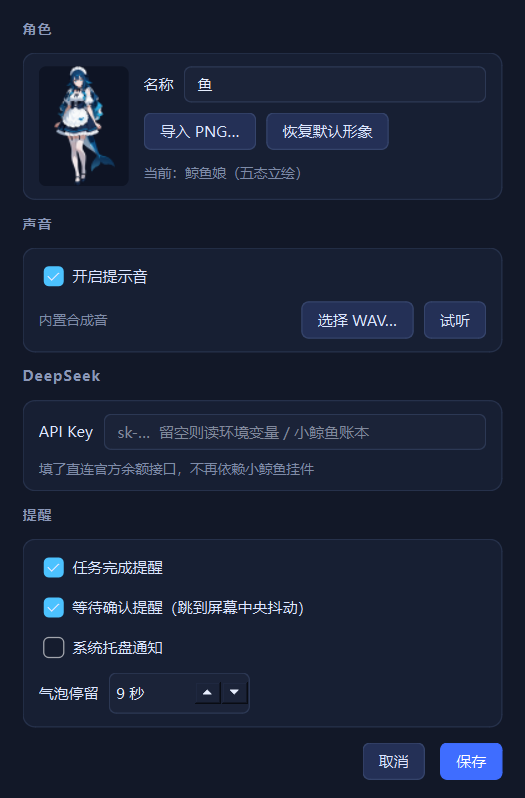
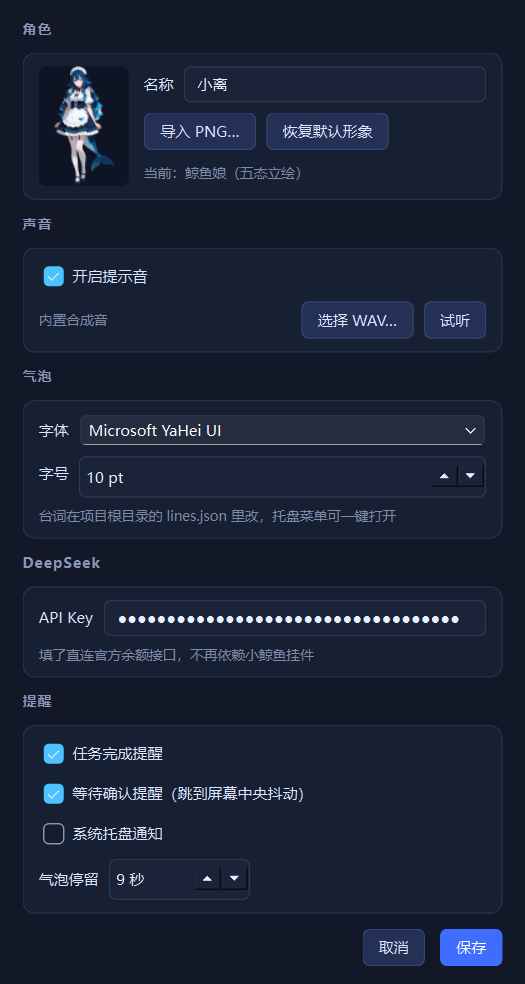
feat(bubble): fuzzy fur edge, editable font and dialogue corpus
- separate feathered fur-edge layer drawn over the panel outline, so the border reads as fluff instead of a hard cut
- bubble font family/size moved into config and exposed in Settings
- lines.json drives every pat reaction; tray item opens it, defaults are generated on first run
- keep the key out of the repo: config.json and lines.json stay ignored

diff --git a/ui/bubble.py b/ui/bubble.py
@@ -11,23 +11,33 @@ from PySide6.QtGui import (QColor, QFont, QFontMetrics, QPainter, QPixmap,
 from PySide6.QtWidgets import QApplication, QWidget
 
 ASSETS = Path(__file__).resolve().parent.parent / "assets" / "bubble"
-PAD_X = 30          # 留出毛绒边框
-PAD_Y = 20
+PAD_X = 34          # 留出毛绒边框
+PAD_Y = 24
 TAIL = 0            # 毛绒面板没有尖角，气泡直接浮在头顶
 MAX_W = 320
 MIN_W = 172
 TEXT = "#3B3644"    # 白底上的深色字
 
 _FUZZ: QPixmap | None = None
+_EDGE: QPixmap | None = None
 
 
 def _fuzz() -> QPixmap:
-    """毛绒底图（Krea2 生成，tools/make_bubble_art.py）。"""
+    """毛绒纹理（Krea2 生成，tools/make_bubble_art.py）。"""
     global _FUZZ
     if _FUZZ is None:
         p = ASSETS / "fluff.png"
         _FUZZ = QPixmap(str(p)) if p.exists() else QPixmap()
     return _FUZZ
+
+
+def _edge() -> QPixmap:
+    """只保留外圈的绒边，用来做不截断的毛边轮廓。"""
+    global _EDGE
+    if _EDGE is None:
+        p = ASSETS / "fluff_edge.png"
+        _EDGE = QPixmap(str(p)) if p.exists() else QPixmap()
+    return _EDGE
 
 
 class Bubble(QWidget):
@@ -40,6 +50,8 @@ class Bubble(QWidget):
         self.setAttribute(Qt.WA_TranslucentBackground, True)
         self.setAttribute(Qt.WA_ShowWithoutActivating, True)
 
+        self._family = "Microsoft YaHei UI"
+        self._size = 10
         self._title = ""
         self._text = ""
         self._accent = QColor("#8FE7FF")
@@ -99,6 +111,15 @@ class Bubble(QWidget):
         if seconds and seconds > 0:
             self._timer.start(int(seconds * 1000))
 
+    def set_style(self, family: str, size: int) -> None:
+        """字体可换——字体族与字号都来自 config，用户改了立即生效。"""
+        self._family = family or "Microsoft YaHei UI"
+        self._size = max(7, min(24, int(size)))
+        self._font = QFont(self._family, self._size)
+        self._doc.setDefaultFont(self._font)
+        self._title_font = QFont(self._family, self._size)
+        self._title_font.setBold(True)
+
     def _place(self, anchor: QRect) -> None:
         screen = QApplication.screenAt(anchor.center()) or QApplication.primaryScreen()
         area = screen.availableGeometry()
@@ -134,25 +155,32 @@ class Bubble(QWidget):
         p.setRenderHint(QPainter.SmoothPixmapTransform, True)
         p.fillRect(self.rect(), Qt.transparent)
 
-        body = QRectF(0.8, 0.8, self.width() - 1.6, self.height() - 1.6)
-        radius = min(18.0, body.height() / 2.0)
+        inset = 4.0
+        body = QRectF(inset, inset, self.width() - inset * 2, self.height() - inset * 2)
+        radius = min(16.0, body.height() / 2.0)
 
-        # 1) 实底：保证文字有干净的背景
+        # 1) 白色实底，略微内缩，让外圈留给绒毛
         p.setPen(Qt.NoPen)
-        p.setBrush(QColor(252, 251, 252, 246))
+        p.setBrush(QColor(252, 251, 252, 250))
         p.drawRoundedRect(body, radius, radius)
 
-        # 2) 毛绒纹理：压低透明度叠在实底上，只当质感，不抢字
+        # 2) 一圈很淡的纹理，增加棉感（不会盖住文字）
         pm = _fuzz()
         if not pm.isNull():
-            p.setOpacity(0.38)
-            self._draw_nine(p, pm, body)
+            p.setOpacity(0.22)
+            self._draw_nine(p, pm, body, dst=22.0)
             p.setOpacity(1.0)
 
-        # 3) 边缘一圈淡描边，把面板和桌面分开
+        # 3) 带羽化的绒边，盖在轮廓上——这样边缘是毛的，不是一刀切
+        edge = _edge()
+        if not edge.isNull():
+            outer = QRectF(0, 0, self.width(), self.height())
+            self._draw_nine(p, edge, outer, dst=30.0)
+
+        # 4) 极淡描边压住内圈，避免白底和绒边之间有条缝
         p.setBrush(Qt.NoBrush)
-        p.setPen(QColor(210, 206, 216, 170))
-        p.drawRoundedRect(body, radius, radius)
+        p.setPen(QColor(214, 210, 220, 90))
+        p.drawRoundedRect(body.adjusted(1, 1, -1, -1), radius - 1, radius - 1)
 
         y = PAD_Y - 4
         if self._title:
@@ -167,15 +195,15 @@ class Bubble(QWidget):
         self._doc.drawContents(p)
 
     @staticmethod
-    def _draw_nine(p: QPainter, pm: QPixmap, rect: QRectF) -> None:
-        """九宫格：四角保留绒毛细节，边和中间拉伸；目标角固定 22px，不被源图尺寸带偏。"""
+    def _draw_nine(p: QPainter, pm: QPixmap, rect: QRectF, dst: float = 22.0) -> None:
+        """九宫格：四角保留绒毛细节，边和中间拉伸。"""
         sw, sh = pm.width(), pm.height()
         src = min(sw, sh) * 0.30
-        dst = min(22.0, rect.width() / 3.0, rect.height() / 3.0)
+        d = min(dst, rect.width() / 3.0, rect.height() / 3.0)
         sx = (0.0, src, sw - src, float(sw))
         sy = (0.0, src, sh - src, float(sh))
-        dx = (rect.left(), rect.left() + dst, rect.right() - dst, rect.right())
-        dy = (rect.top(), rect.top() + dst, rect.bottom() - dst, rect.bottom())
+        dx = (rect.left(), rect.left() + d, rect.right() - d, rect.right())
+        dy = (rect.top(), rect.top() + d, rect.bottom() - d, rect.bottom())
         for i in range(3):
             for j in range(3):
                 w = dx[i + 1] - dx[i]

diff --git a/app.py b/app.py
@@ -10,7 +10,7 @@ from PySide6.QtCore import QObject, QPoint, QThread, QTimer, Qt, Signal
 from PySide6.QtGui import QAction, QActionGroup
 from PySide6.QtWidgets import QApplication, QMenu, QSystemTrayIcon
 
-from core import config, skins
+from core import config, skins, texts
 from core.log import log
 from core.log import exc as log_exc
 from core.store import Store
@@ -28,14 +28,7 @@ from ui.sprite import load_custom_skin, load_skin
 ROOT = Path(__file__).resolve().parent
 DEDUPE_WINDOW = 45.0  # 同一任务的重复完成提醒合并窗口（秒）
 
-# 摸摸时的随机台词
-PAT_LINES = {
-    "happy": ["嘿嘿…", "好舒服～", "再来一下嘛", "唔…喜欢"],
-    "shy": ["别、别摸了…", "脸要烧起来了", "诶…突然这样"],
-    "angry": ["别戳了！", "再点真要生气了", "哼——"],
-    "surprise": ["哇啊——", "放我下来！"],
-    "sad": ["呜…", "今天有点累"],
-}
+
 
 
 class Poller(QThread):
@@ -104,6 +97,8 @@ class DeskPet(QObject):
         self.pet.context_requested.connect(self._show_menu)
 
         self.bubble = Bubble()
+        self.bubble.set_style(self.cfg.get("bubble", {}).get("font_family", ""),
+                              self.cfg.get("bubble", {}).get("font_size", 10))
         self.panel = Panel()
         self.panel.set_name(self._pet_name())
         self.sound = Player(
@@ -122,6 +117,8 @@ class DeskPet(QObject):
         self._pat_times: list[float] = []
         self._last_line = ""
         self._last_pat_at = 0.0
+        texts.write_example()
+        self.lines = texts.load_lines()
         self._home_pos: QPoint | None = None
         self._alert_centered = False
         self._last_saved_pos = None
@@ -268,6 +265,9 @@ class DeskPet(QObject):
         self.sound.muted = not cfg["alerts"]["sound"] or cfg["pet"]["muted"]
         self.sound.set_custom(cfg["alerts"].get("sound_file", ""))
         self.ds.set_key(cfg["deepseek"].get("api_key", ""))
+        self.bubble.set_style(cfg.get("bubble", {}).get("font_family", ""),
+                              cfg.get("bubble", {}).get("font_size", 10))
+        self.lines = texts.load_lines()
 
         self._reload_skin()
         self.panel.set_name(self._pet_name())
@@ -549,7 +549,7 @@ class DeskPet(QObject):
 
         self.pet.set_mood(mood, 2.6)
         self.sound.play("click")
-        pool = PAT_LINES.get(mood, ["…"])
+        pool = self.lines.get(mood) or ["…"]
         fresh = [l for l in pool if l != self._last_line] or pool
         line = random.choice(fresh)
         self._last_line = line
@@ -599,6 +599,16 @@ class DeskPet(QObject):
         except Exception:
             log_exc("重建采集线程失败")
         self._last_tick_at = time.time()
+
+    def _open_lines_file(self) -> None:
+        """把 lines.json 交给系统默认编辑器，改完下次摸摸就生效。"""
+        import os
+
+        path = texts.write_example()
+        try:
+            os.startfile(str(path))       # noqa: S606 - 只打开自己的文件
+        except Exception:
+            log_exc("打开台词文件失败")
 
     # ---------------- 换肤 ----------------
     def _switch_skin(self, skin_id: str) -> None:

diff --git a/ui/settings.py b/ui/settings.py
@@ -5,10 +5,10 @@ import shutil
 from pathlib import Path
 
 from PySide6.QtCore import Qt, Signal
-from PySide6.QtGui import QPixmap
-from PySide6.QtWidgets import (QCheckBox, QDialog, QFileDialog, QFormLayout, QFrame,
-                               QHBoxLayout, QLabel, QLineEdit, QPushButton,
-                               QSpinBox, QVBoxLayout, QWidget)
+from PySide6.QtGui import QFont, QPixmap
+from PySide6.QtWidgets import (QCheckBox, QDialog, QFileDialog, QFontComboBox,
+                               QFormLayout, QFrame, QHBoxLayout, QLabel, QLineEdit,
+                               QPushButton, QSpinBox, QVBoxLayout, QWidget)
 
 CUSTOM_DIR = Path(__file__).resolve().parent.parent / "assets" / "custom"
 
@@ -119,6 +119,27 @@ class SettingsDialog(QDialog):
         snd_row.addWidget(b2)
         form.addRow(snd_row)
         root.addWidget(snd)
+
+        # ---- 气泡 ----
+        root.addWidget(_section("气泡"))
+        bub = QFrame()
+        bub.setObjectName("card")
+        form_b = QFormLayout(bub)
+        form_b.setContentsMargins(12, 10, 12, 10)
+        form_b.setSpacing(8)
+        bcfg = self.cfg.get("bubble", {})
+        self.cb_font = QFontComboBox()
+        self.cb_font.setCurrentFont(QFont(bcfg.get("font_family", "Microsoft YaHei UI")))
+        form_b.addRow(QLabel("字体"), self.cb_font)
+        self.sp_fsize = QSpinBox()
+        self.sp_fsize.setRange(8, 18)
+        self.sp_fsize.setValue(int(bcfg.get("font_size", 10)))
+        self.sp_fsize.setSuffix(" pt")
+        form_b.addRow(QLabel("字号"), self.sp_fsize)
+        hint_b = QLabel("台词在项目根目录的 lines.json 里改，托盘菜单可一键打开")
+        hint_b.setStyleSheet("color:#7E8BA8; font-size:11px;")
+        form_b.addRow(hint_b)
+        root.addWidget(bub)
 
         # ---- DeepSeek ----
         root.addWidget(_section("DeepSeek"))
@@ -237,6 +258,9 @@ class SettingsDialog(QDialog):
         self.cfg["alerts"]["approval"] = self.ck_appr.isChecked()
         self.cfg["alerts"]["tray"] = self.ck_tray.isChecked()
         self.cfg["alerts"]["bubble_seconds"] = self.sp_dur.value()
+        self.cfg.setdefault("bubble", {})
+        self.cfg["bubble"]["font_family"] = self.cb_font.currentFont().family()
+        self.cfg["bubble"]["font_size"] = self.sp_fsize.value()
         self.cfg["deepseek"]["api_key"] = self.ed_key.text().strip()
         self.saved.emit(self.cfg)
         self.accept()

diff --git a/core/texts.py b/core/texts.py
@@ -1,0 +1,53 @@
+"""台词库：默认内置一份，用户可用项目根目录的 lines.json 覆盖。"""
+from __future__ import annotations
+
+import json
+from pathlib import Path
+
+ROOT = Path(__file__).resolve().parent.parent
+LINES_FILE = ROOT / "lines.json"
+
+DEFAULT_LINES: dict[str, list[str]] = {
+    "happy": ["嘿嘿…", "好舒服～", "再来一下嘛", "唔…喜欢"],
+    "shy": ["别、别摸了…", "脸要烧起来了", "诶…突然这样"],
+    "angry": ["别戳了！", "再点真要生气了", "哼——"],
+    "surprise": ["哇啊——", "放我下来！"],
+    "sad": ["呜…", "今天有点累"],
+    "idle": ["在呢", "嗯？"],
+}
+
+DEFAULT_FONT = {"family": "Microsoft YaHei UI", "size": 10, "title_size": 10}
+
+
+def load_lines(path: Path | None = None) -> dict[str, list[str]]:
+    """默认台词 + lines.json 覆盖（同名键整组替换，不追加）。"""
+    out = {k: list(v) for k, v in DEFAULT_LINES.items()}
+    target = Path(path) if path else LINES_FILE
+    if not target.exists():
+        return out
+    try:
+        data = json.loads(target.read_text(encoding="utf-8"))
+    except Exception:
+        return out
+    if not isinstance(data, dict):
+        return out
+    for key, val in data.items():
+        if isinstance(val, str):
+            val = [val]
+        if isinstance(val, list):
+            lines = [str(x).strip() for x in val if str(x).strip()]
+            if lines:
+                out[str(key)] = lines
+    return out
+
+
+def write_example(path: Path | None = None, force: bool = False) -> Path:
+    """首次运行写一份可编辑的 lines.json（已存在则不覆盖）。"""
+    target = Path(path) if path else LINES_FILE
+    if target.exists() and not force:
+        return target
+    target.write_text(
+        json.dumps(DEFAULT_LINES, ensure_ascii=False, indent=2),
+        encoding="utf-8",
+    )
+    return target

diff --git a/core/config.py b/core/config.py
@@ -44,6 +44,10 @@ DEFAULTS: dict = {
         "refresh_seconds": 300,
         "exe": "",
     },
+    "bubble": {
+        "font_family": "Microsoft YaHei UI",
+        "font_size": 10,
+    },
     "autostart": False,
 }
 

diff --git a/README.zh-CN.md b/README.zh-CN.md
@@ -179,8 +179,14 @@ python tools/make_skin.py --name moth-girl --image D:/art/base.png ^
     --box 822,345,1064,426 --display "雪蛾" --feather 9
 ```
 
-气泡背景是 Krea2 生成的白色毛绒面板（`tools/make_bubble_art.py` 出图 + birefnet 抠图），
-运行时用九宫格拉伸，换行变宽也不会糊。
+气泡背景是 Krea2 生成的白色毛绒面板（`tools/make_bubble_art.py` 出图 + birefnet 抠图），运行时用九宫格拉伸，
+四角保留绒毛、边缘用单独的羽化绒边层盖住，所以轮廓是毛的而不是一刀切。
+
+**字体和台词都能改**：
+
+- 字体：右键 → 设置 → 气泡，选字体族和字号，保存即生效
+- 台词：托盘 → 编辑台词…，打开项目根目录的 `lines.json`（`happy / shy / angry / surprise / sad / idle` 六组，
+  每组一个字符串数组），改完下次摸摸就用新台词；文件不存在时会自动生成一份默认的
 
 `qwen_faces.py` 是推荐路径：只改裁出来的头部再羽化贴回，裁切框外的发丝、绒毛、光照逐像素不变。
 Krea 2 必须用很窄的蒙版，而且更容易把纯黑复眼改成棕色虹膜。

diff --git a/README.md b/README.md
@@ -180,7 +180,14 @@ python tools/make_skin.py --name moth-girl --image D:/art/base.png ^
 ```
 
 The bubble background is a white fluffy panel generated with Krea2 (`tools/make_bubble_art.py`,
-then matted with birefnet) and stretched with 9-slice at runtime.
+then matted with birefnet), stretched with 9-slice, with a separate feathered fur-edge layer on top —
+the outline is fuzzy instead of a clean vector cut.
+
+**Font and lines are editable:**
+
+- Font: right click → Settings → 气泡, pick a family and size, saved to `config.json`
+- Lines: tray → 编辑台词… opens `lines.json` in the project root (`happy / shy / angry / surprise / sad / idle`,
+  each a string array). A default file is generated on first run.
 
 `qwen_faces.py` is the recommended path: it only touches the cropped head and pastes it back
 with a feathered edge, so hair, fur and lighting outside the crop are pixel-identical.
